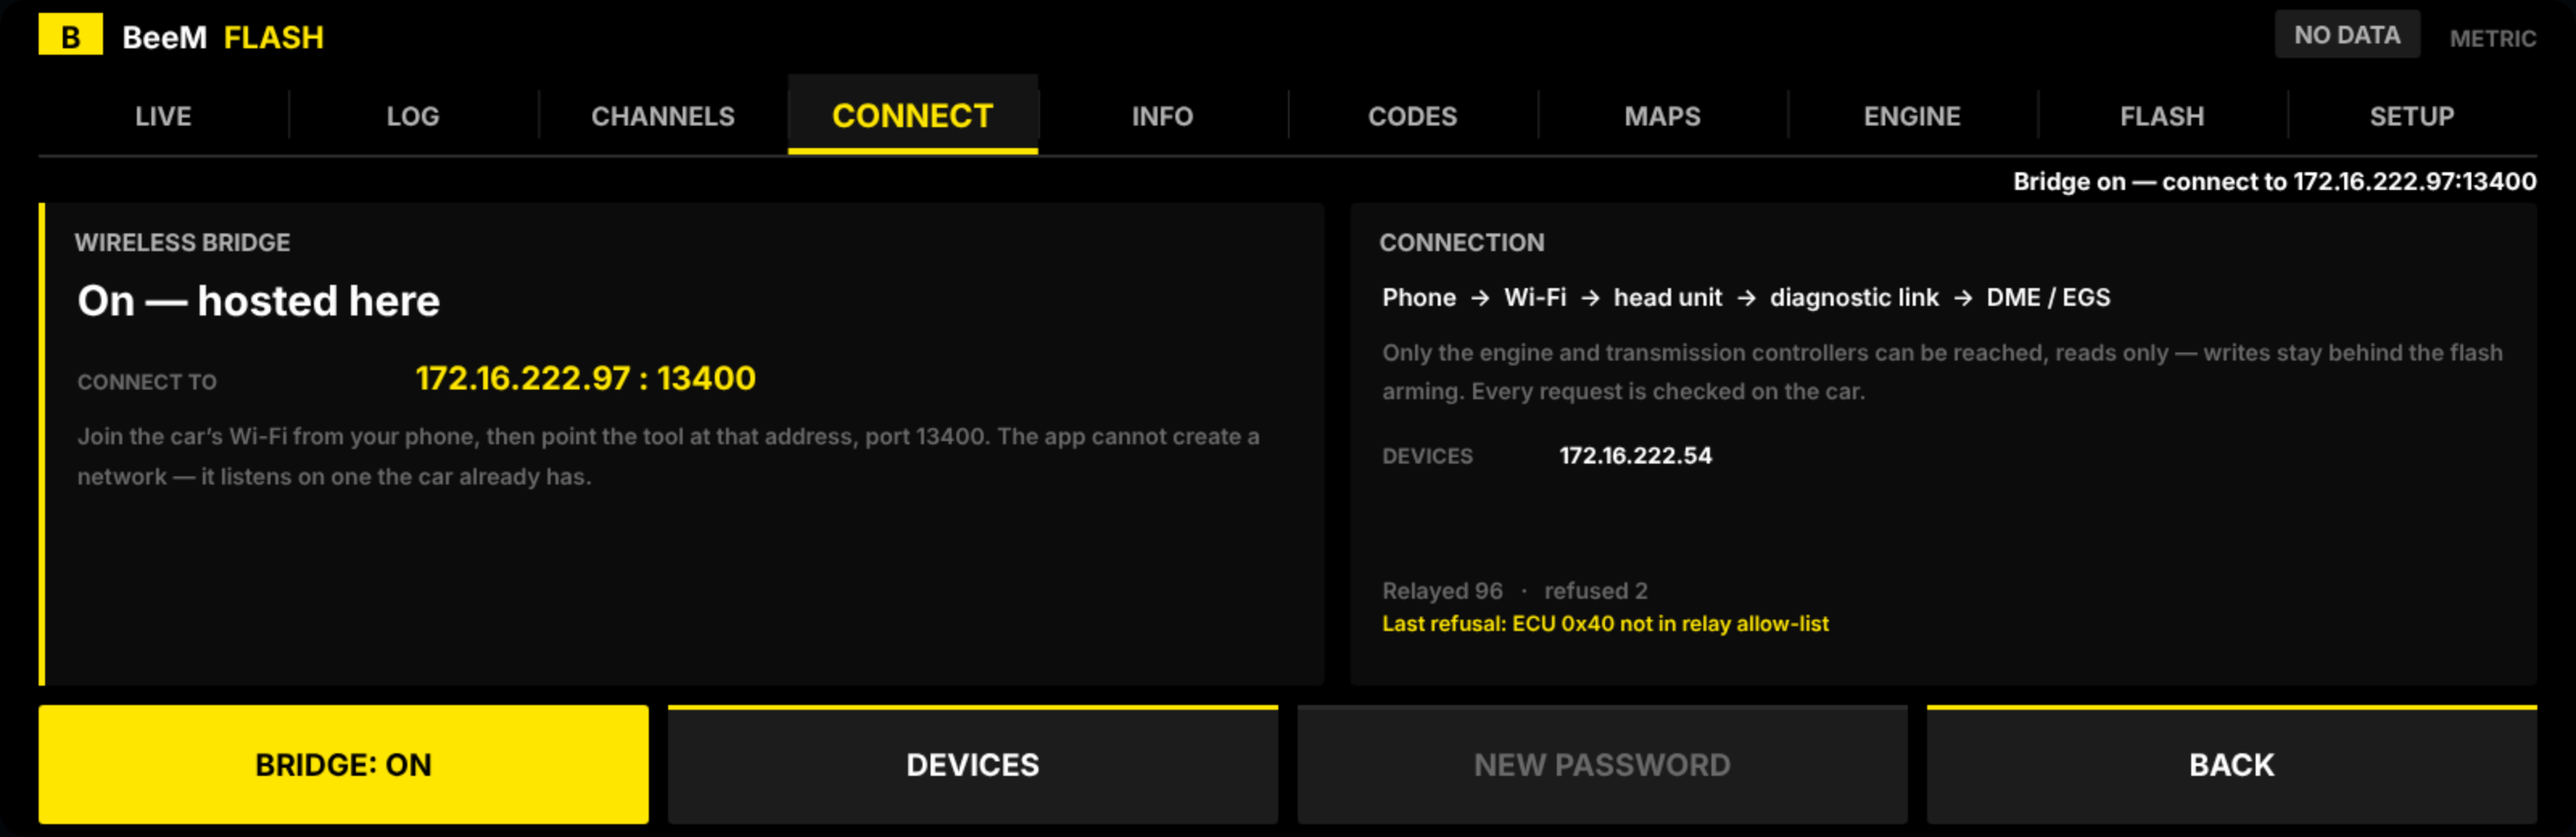
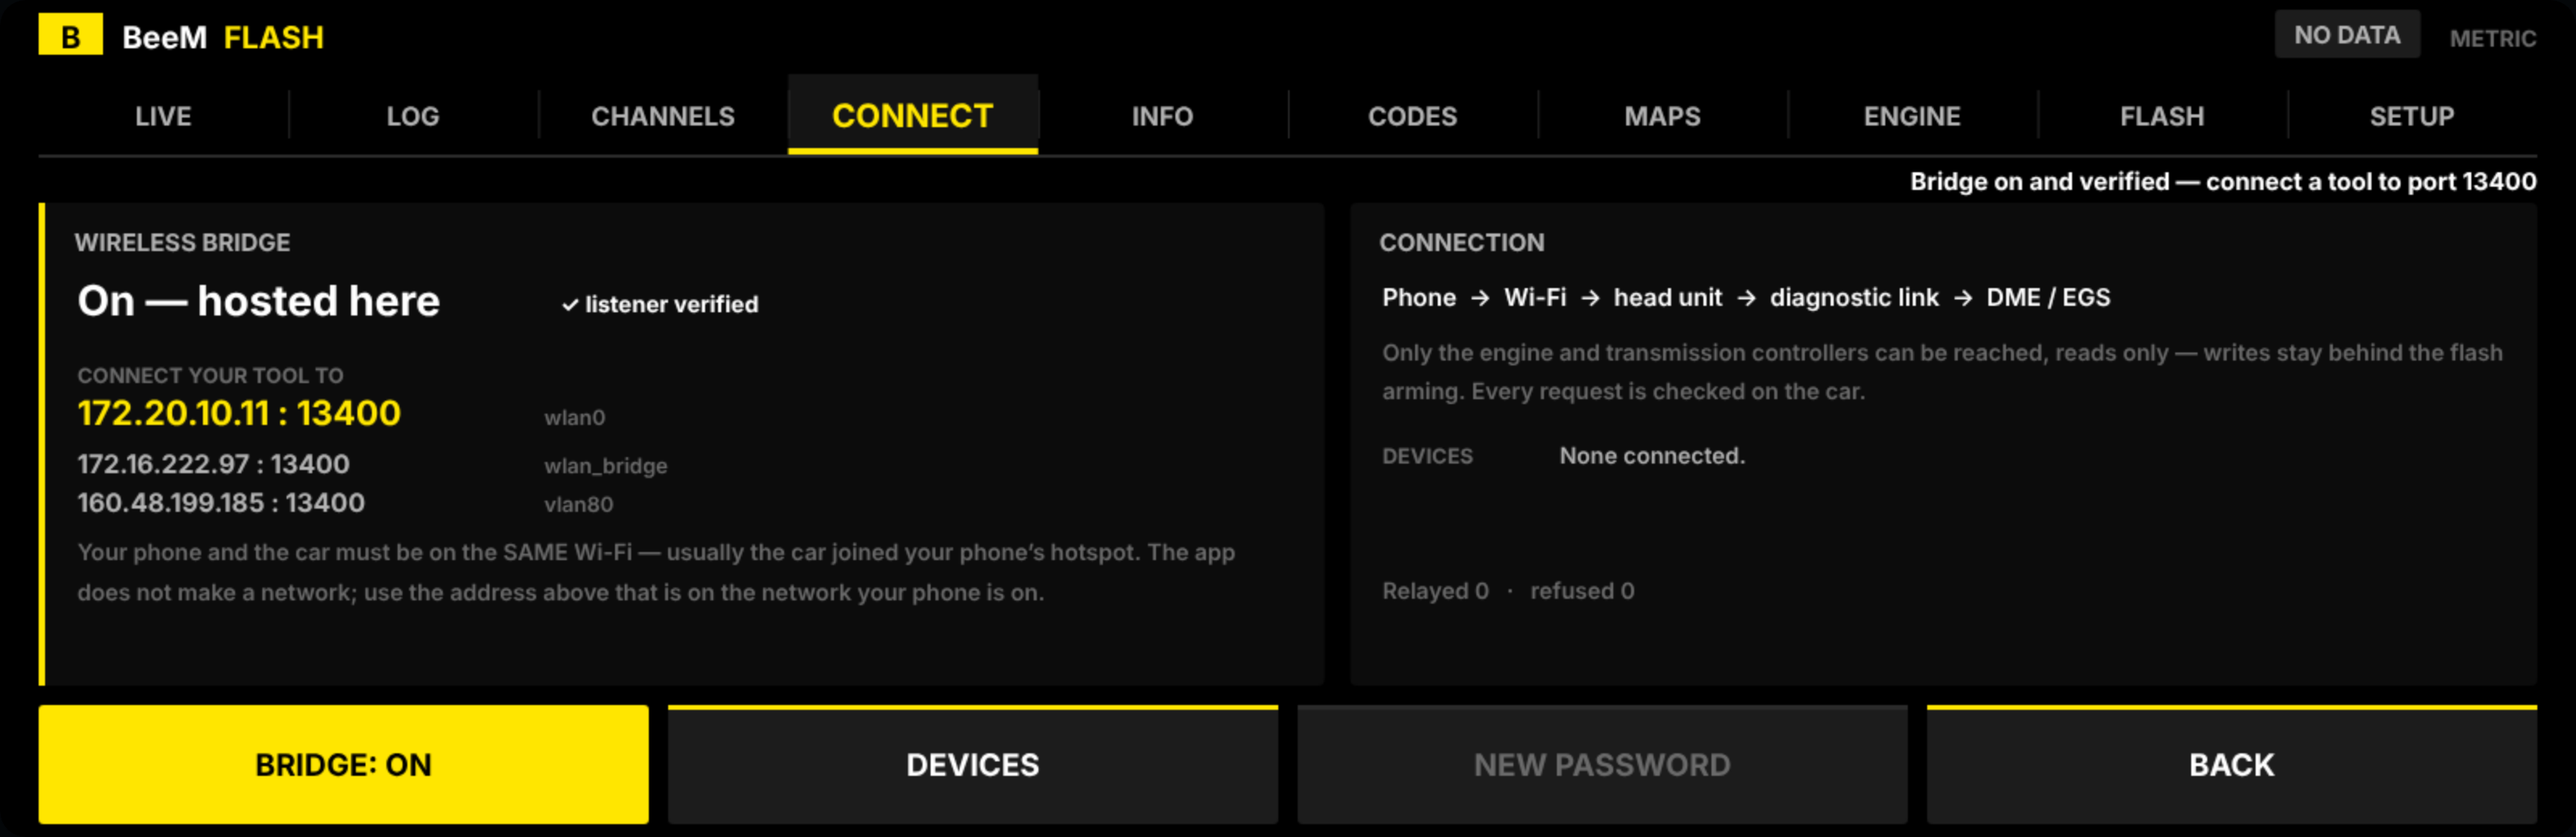
v2.15.1: show the address a tool can actually dial, and verify the listener
The direct bridge WAS working on-car - it bound and served DoIP - but the
page showed "CONNECT TO :: : 13400" and no address list, so there was
nothing usable to type into a tool.

Cause: bridgediag.netInfo() returns { iface, ip }, and both helpers read
.name / .address. So the interface match never fired (bind fell back to
every address, hence "::") and the address list filtered itself empty.
Reading the right fields fixes both. The listener now deliberately binds
EVERY address - the phone may be on a hotspot, home Wi-Fi or the car's own
bridge, and binding one interface silently excludes the others.

The page now leads with the address to dial, ranked so a reachable one is
first and the car-internal vlans (160.48.x) and the internal CarPlay /
rear-seat bridge (172.16.x) sort last - on the test car the useful address
was the hotspot one (172.20.10.11), while the UI had been pointing at the
internal bridge.

Added a loopback SELF-TEST: the app dials its own listener and performs a
DoIP routing activation. It separates the two failures people actually hit
- "the app is not serving" from "the network cannot reach the app" - which
need completely different fixes. Shown as "listener verified" on the page,
re-run by DEVICES.

Also: the ENET/DoIP panel now says what it is. It is for a plug-in ENET
cable on a laptop; ENET: ON only enables this app's DoIP client and SCAN
looks for a car on the network, so "No vehicle found" on a head unit with
no cable is CORRECT, not a fault.
[…]

diff --git a/apps/wali_datalog/main.js b/apps/wali_datalog/main.js
@@ -904,9 +904,15 @@ App.prototype._bridgeToggle = function () {
   this.bserver.host = host;
   this.bserver.start().then(function (r) {
     if (r.ok) {
-      self.bstate.busy = false; self.bstate.mode = 'direct'; self.bstate.ok = true;
-      self.bstate.msg = 'Bridge on \u2014 connect to ' + r.host + ':' + r.port;
-      return;
+      self.bstate.mode = 'direct';
+      // Prove the listener really answers before telling the user it is on.
+      return self.bserver.selfTest().then(function (t) {
+        self.bstate.busy = false; self.bstate.ok = !!t.ok;
+        self.bstate.selfTest = t;
+        self.bstate.msg = t.ok
+          ? 'Bridge on and verified \u2014 connect a tool to port ' + r.port
+          : 'Listener started but did not answer: ' + t.detail;
+      });
     }
     // Binding on a specific address can fail where binding every address works.
     if (host) {
@@ -928,17 +934,11 @@ App.prototype._bridgeToggle = function () {
 
 // The address to listen on: the unit's wireless interface if we can see one
 // (that is the network a phone joins), else let the runtime choose.
-App.prototype._bridgeHost = function () {
-  try {
-    var bd = require('./bridgediag');
-    var ifs = bd.netInfo() || [];
-    for (var i = 0; i < ifs.length; i++) {
-      var n = String(ifs[i].name || '');
-      if (/^wl|wlan/i.test(n) && ifs[i].address) return ifs[i].address;
-    }
-  } catch (e) { /* fall through */ }
-  return null;
-};
+// Listen on EVERY address the unit has. We cannot know which network the
+// phone will be on - the car may be joined to a phone hotspot, a home Wi-Fi or
+// its own internal bridge - so binding one interface would silently exclude the
+// others. null = every address.
+App.prototype._bridgeHost = function () { return null; };
 
 // 2) HELPER: the sandbox refused to listen, so fall back to the root daemon.
 //    Say plainly which one is in play and why.
@@ -980,8 +980,12 @@ App.prototype._bridgeRefresh = function () {
   if (this.bstate.mode === 'direct') {
     this.bgate.renew(this._config().bridge && this._config().bridge.leaseMs);
     var n = this.bserver.peers.length;
-    this.bstate.msg = n + ' device' + (n === 1 ? '' : 's') + ' connected.';
-    this.bstate.ok = true;
+    this.bserver.selfTest().then(function (t) {
+      self.bstate.selfTest = t;
+      self.bstate.msg = n + ' device' + (n === 1 ? '' : 's') + ' connected\u2003\u00b7\u2003' +
+        (t.ok ? 'listener verified' : 'listener NOT answering: ' + t.detail);
+      self.bstate.ok = !!t.ok;
+    });
     return;
   }
   if (!this.bridge.connected) return;
@@ -1002,6 +1006,7 @@ App.prototype._bridgeView = function () {
   s.busy = this.bstate.busy; s.msg = this.bstate.msg; s.msgOk = this.bstate.ok;
   s.enabled = s.gate.enabled;
   s.mode = this.bstate.mode;                 // 'off' | 'direct' | 'helper'
+  s.selfTest = this.bstate.selfTest || null;
   s.direct = d;
   // In direct mode the counters and devices come from our own listener.
   if (this.bstate.mode === 'direct') {
@@ -1013,12 +1018,24 @@ App.prototype._bridgeView = function () {
 };
 
 // Every address a phone could try, for the on-screen instructions.
+// Every address a tool could actually dial, newest-looking first. netInfo()
+// reports { iface, ip } - reading .name/.address here silently produced an
+// empty list, which is why the page showed no address at all.
 App.prototype._bridgeHosts = function () {
   try {
     var bd = require('./bridgediag');
-    return (bd.netInfo() || []).filter(function (i) {
-      return i.address && i.address !== '127.0.0.1';
-    }).map(function (i) { return { name: i.name, address: i.address }; });
+    var list = (bd.netInfo() || []).filter(function (i) {
+      return i.ip && i.ip !== '127.0.0.1' && !i.internal;
+    }).map(function (i) { return { name: i.iface, address: i.ip }; });
+    // The car's own internal vlans are not reachable from a phone; show the
+    // likely-useful addresses first rather than burying them.
+    list.sort(function (a, b) { return rank(a.address) - rank(b.address); });
+    function rank(ip) {
+      if (/^160\.48\./.test(ip)) return 3;          // car-internal vlan
+      if (/^172\.16\./.test(ip)) return 2;          // internal wlan bridge (CarPlay / rear seat)
+      return 1;                                      // a network something else can join
+    }
+    return list;
   } catch (e) { return []; }
 };
 

diff --git a/apps/wali_datalog/screens.js b/apps/wali_datalog/screens.js
@@ -408,22 +408,34 @@ function connectBridge(cv, t, view, R) {
   var x = R.x + 24, y = R.y + 70;
 
   if (mode === 'direct') {
-    // Hosted by the app itself: no helper, no PC. The phone joins a network the
-    // car is ALREADY on, then connects to this address.
+    // Hosted by the app itself. The car does NOT make a network: it is already
+    // ON one (often a phone hotspot). The tool dials the CAR's address on that
+    // network, so that address is the thing to show.
+    var st = b.selfTest;
     cv.text('On \u2014 hosted here', x, y, 30, t.good, { weight: 'bold' });
-    cv.text('CONNECT TO', x, y + 46, 15, t.faint, { weight: 'bold' });
-    cv.text((d.host && d.host !== '0.0.0.0' ? d.host : 'this head unit') + ' : ' + (d.port || 13400),
-      x + 210, y + 46, 24, t.accent, { weight: 'bold' });
-    var hy = y + 80, hosts = b.hosts || [];
-    if (hosts.length) {
-      cv.text('ADDRESSES', x, hy, 15, t.faint, { weight: 'bold' });
-      for (var hi = 0; hi < hosts.length && hi < 4; hi++) {
-        cv.text(hosts[hi].name + '   ' + hosts[hi].address, x + 210, hy + hi * 22, 17, t.text, {});
-      }
-      hy += Math.min(hosts.length, 4) * 22 + 16;
+    if (st) {
+      cv.text(st.ok ? '\u2713 listener verified' : '\u2717 ' + (st.detail || 'not answering'),
+        x + 300, y - 2, 17, st.ok ? t.good : t.crit, { weight: 'bold' });
     }
-    wrapText(cv, t, 'Join the car\u2019s Wi-Fi from your phone, then point the tool at that address, port ' +
-      (d.port || 13400) + '. The app cannot create a network \u2014 it listens on one the car already has.',
+
+    var hosts = b.hosts || [], hy = y + 42;
+    cv.text('CONNECT YOUR TOOL TO', x, hy, 15, t.faint, { weight: 'bold' });
+    hy += 26;
+    if (!hosts.length) {
+      cv.text('port ' + (d.port || 13400) + ' \u2014 no network address yet', x, hy, 22, t.warn, { weight: 'bold' });
+      hy += 30;
+    } else {
+      for (var hi = 0; hi < hosts.length && hi < 3; hi++) {
+        var first = hi === 0;
+        cv.text(hosts[hi].address + ' : ' + (d.port || 13400), x, hy, first ? 25 : 19,
+          first ? t.accent : t.dim, { weight: 'bold' });
+        cv.text(hosts[hi].name, x + 290, hy, 15, t.faint, {});
+        hy += first ? 30 : 24;
+      }
+      hy += 6;
+    }
+    wrapText(cv, t, 'Your phone and the car must be on the SAME Wi-Fi \u2014 usually the car joined your phone\u2019s hotspot. ' +
+      'The app does not make a network; use the address above that is on the network your phone is on.',
       x, hy, pw - 48, 17, t.faint);
   } else if (mode === 'helper' && b.connected) {
     cv.text(ap.up ? 'On \u2014 helper access point' : 'Helper ready', x, y, 30, ap.up ? t.good : t.warn, { weight: 'bold' });
@@ -490,7 +502,8 @@ function connect(cv, t, view, R) {
   var vx = R.x + pw + 16, vw = R.x + R.w - vx;
   D.panel(cv, t, vx, R.y, vw, R.h, { title: 'ENET / DoIP — OPTIONAL' });
   var ex = vx + 20, ey = R.y + 64;
-  ey = wrapText(cv, t, 'For an external ENET / Wi-Fi adapter only. Not needed for normal use — and the head unit’s own software can’t open this link, so SCAN won’t find a vehicle here.', ex, ey, vw - 40, 16, t.faint) + 12;
+  ey = wrapText(cv, t, 'For a plug-in ENET cable (OBD port → Ethernet) on a laptop. ENET: ON only enables this app’s DoIP client; SCAN then looks for a car on the network. On the head unit there is no ENET cable, so “No vehicle found” is CORRECT — nothing is broken.', ex, ey, vw - 40, 16, t.faint) + 10;
+  ey = wrapText(cv, t, 'You do not need this: LIVE, CODES, INFO and FLASH already talk to the car over the head unit’s own link. For a phone, use WIRELESS BRIDGE.', ex, ey, vw - 40, 16, t.dim) + 12;
   if (e.vehicle) { cv.text('Vehicle: ' + (e.vehicle.host || '?'), ex, ey, 17, t.text, { weight: 'bold' }); }
   else if (e.scanning) { cv.text('Scanning…', ex, ey, 17, t.warn, { weight: 'bold' }); }
   else { cv.text(e.enabled ? 'ENET ON — tap ENET SCAN' : 'ENET OFF (tap ENET: OFF to enable)', ex, ey, 15, e.enabled ? t.warn : t.faint, {}); }

diff --git a/apps/wali_datalog/bridgeserver.js b/apps/wali_datalog/bridgeserver.js
@@ -191,6 +191,61 @@ BridgeServer.prototype._onFrame = function (c, peer, type, payload) {
   }).catch(function (e) { self._log('relay error: ' + ((e && e.message) || e)); });
 };
 
+// selfTest() -> Promise<{ ok, detail }>
+//
+// Dials our OWN listener over the loopback address and performs a DoIP routing
+// activation. It proves the listener is up, reachable and framing correctly
+// WITHOUT any phone or tool, which separates the two failures people actually
+// hit: "the app is not serving" vs "the network cannot reach the app". The
+// second is far more common and needs a completely different fix.
+BridgeServer.prototype.selfTest = function () {
+  var self = this;
+  if (!this.listening) return Promise.resolve({ ok: false, detail: 'the listener is not running' });
+  var net = this._net();
+  if (!net || !net.connect) return Promise.resolve({ ok: false, detail: 'no socket support' });
+  return new Promise(function (resolve) {
+    var done = false, got = Buffer.alloc(0), c;
+    function finish(r) {
+      if (done) return; done = true;
+      try { c && c.destroy(); } catch (e) {}
+      resolve(r);
+    }
+    var timer = setTimeout(function () { finish({ ok: false, detail: 'no answer from our own listener' }); }, 1500);
+    try { c = net.connect(self.port, '127.0.0.1'); } catch (e) {
+      clearTimeout(timer);
+      return finish({ ok: false, detail: (e && (e.code || e.message)) || String(e) });
+    }
+    c.on('connect', function () {
+      try { c.write(frame(0x0005, Buffer.from([0x0e, 0x00, 0, 0, 0, 0, 0]))); } catch (e) {}
+    });
+    c.on('data', function (d) {
+      got = Buffer.concat([got, d]);
+      while (got.length >= 8) {
+        var type = got.readUInt16BE(2), len = got.readUInt32BE(4);
+        if (got.length < 8 + len) break;
+        var payload = got.slice(8, 8 + len);
+        got = got.slice(8 + len);
+        if (type === 0x0006) {
+          clearTimeout(timer);
+          var code = payload[4];
+          // 0x10 = accepted (the bridge is armed), 0x06 = refused because it is
+          // not armed. BOTH prove the listener and the framing work.
+          return finish({
+            ok: true,
+            armed: code === 0x10,
+            detail: code === 0x10 ? 'listener answered and accepted routing'
+              : 'listener answered (routing refused until the bridge is armed)'
+          });
+        }
+      }
+    });
+    c.on('error', function (e) {
+      clearTimeout(timer);
+      finish({ ok: false, detail: (e && (e.code || e.message)) || String(e) });
+    });
+  });
+};
+
 BridgeServer.DEFAULT_PORT = DEFAULT_PORT;
 BridgeServer.frame = frame;
 module.exports = BridgeServer;

diff --git a/runtime/web/index.html b/runtime/web/index.html
@@ -108,11 +108,13 @@
     else if (name === 'bridge-off') { app = makeApp(); app.tab = 'connect'; app.connectView = 'bridge'; app.render(cv); cap = 'BRIDGE \u2014 off (no daemon)'; }
     else if (name === 'bridge-direct') { app = makeApp(); app.tab = 'connect'; app.connectView = 'bridge';
       app.bgate.acknowledge(); app.bgate.enable(); app.bgate.arm(60000);
-      app.bstate = { busy: false, mode: 'direct', msg: 'Bridge on \u2014 connect to 172.16.222.97:13400', ok: true };
-      app.bserver.listening = true; app.bserver.boundHost = '172.16.222.97'; app.bserver.port = 13400;
-      app.bserver.peers = [{ ip: '172.16.222.54', mac: null }];
-      app.bserver.stats = { relayed: 96, refused: 2, lastRefusal: 'ECU 0x40 not in relay allow-list', audit: [] };
-      app.render(cv); cap = 'BRIDGE \u2014 direct (no helper needed)'; }
+      app.bstate = { busy: false, mode: 'direct', ok: true, msg: 'Bridge on and verified \u2014 connect a tool to port 13400',
+        selfTest: { ok: true, armed: true, detail: 'listener answered and accepted routing' } };
+      app.bserver.listening = true; app.bserver.boundHost = '::'; app.bserver.port = 13400;
+      app.bserver.peers = []; app.bserver.stats = { relayed: 0, refused: 0, lastRefusal: null, audit: [] };
+      app._bridgeHosts = function () { return [ { name: 'wlan0', address: '172.20.10.11' },
+        { name: 'wlan_bridge', address: '172.16.222.97' }, { name: 'vlan80', address: '160.48.199.185' } ]; };
+      app.render(cv); cap = 'BRIDGE \u2014 direct, verified'; }
     else if (name === 'bridge-on') { app = makeApp(); app.tab = 'connect'; app.connectView = 'bridge';
       app.bgate.acknowledge(); app.bgate.enable(); app.bgate.arm(60000);
       app.bstate = { busy: false, mode: 'helper', msg: '1 device connected.', ok: true };
